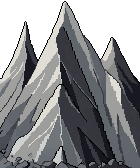
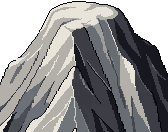
Mountains: rolling ground to foothill to peak, in three touching bands
The operator's second list, worked through. The land now THICKENS the way
the forest does instead of jumping from meadow to alp: low rolling rises
at the front, foothills just behind them, peaks behind those, and the
band offsets are measured against the art's own height so each band
OVERLAPS the one behind it — the grass that showed between foothill and
mountain last round is gone. The foothills themselves were rebuilt: they
were rocky hummocks with scree scattered round them, which read as random
debris; they are smooth slow rises now, no summit, no rubble, drawn in
the same grey stone, and both low bands are placed at half size so small
ground reads small beside a peak.

Straight lines had four separate causes and all four are fixed. The
ground shadow was cast from each piece's untorn foot, so it stayed as a
ruled band after the tear pulled the rock up off it — it is cast from the
composite's own silhouette now. The tear itself was sampling the land
lattice far past the end of its array, where it clamps to a constant and
quietly restored the very edge it was meant to break; it reads a coarse
5px hash instead, so the edge comes away in chunks. The step between
pieces was measured on the untorn width, leaving a strip of grass between
every pair. And the foot is now torn ONLY on the frontmost band — tearing
it under another band opened a window onto the grass between them.

Also: the needle peaks the operator called too sharp are replaced by four
[…]

diff --git a/js/render.js b/js/render.js
@@ -602,10 +602,10 @@ const MTN = {
      massif has depth instead of being one row of cardboard. */
   KIT: 1,                // 0 stands the drawn kit down; the extrusion returns
   KIT_OVERLAP: 0.34,
-  KIT_RANK_STEP: 4,      // tiles
+  KIT_RANK_STEP: 3,      // tiles between peak ranks (bands stay touching)
   KIT_RANK_MAX: 3,
   KIT_SADDLE_EVERY: 0.42,// share of chain slots that take a low link
-  KIT_PAD_UP: 7,         // tiles of northward headroom a drawn peak may use
+  KIT_PAD_UP: 10,         // tiles of northward headroom a drawn peak may use
   KIT_TEAR: 16,           // px of the piece's own left/right/bottom edge torn away
   KIT_SHORE_GAP: 1,      // tiles of grass kept between the art and any water
   KIT_SHADOW: 10,        // px of ground shadow cast south of a piece's foot
@@ -4144,6 +4144,7 @@ const R = {
     if (!peaks.length) return null;
     const saddles = (kit.saddle && kit.saddle.length) ? kit.saddle : null;
     const hills = (kit.hill && kit.hill.length) ? kit.hill : null;
+    const rolls = (kit.roll && kit.roll.length) ? kit.roll : null;
     const [bx0, by0, bx1, by1] = r.box;
     const cw = bx1 - bx0 + 1;
     const north = new Int32Array(cw).fill(1e9), south = new Int32Array(cw).fill(-1);
@@ -4154,21 +4155,32 @@ const R = {
     }
     const hsh = (a, b) => this._lh(a | 0, b | 0, (r.seed & 511) + 811);
     const plan = [];
-    /* one pass per RANK, north to south, so the plan is built back to front:
-       the deepest peaks first, the foothills last. `up` is how far north of
-       the southern edge this rank stands. */
-    const ranks = [];
-    for (let i = MTN.KIT_RANK_MAX - 1; i >= 1; i--) ranks.push({ up: i * MTN.KIT_RANK_STEP, kind: 'peak' });
-    ranks.push({ up: 0, kind: hills ? 'hill' : 'peak' });      // the front rank
+    /* THE BANDS, and why they are only a tile or two apart. A range is read
+       the way the forest is: the land does not jump from meadow to alp, it
+       THICKENS — small rolling rises first, then foothills, then the peaks
+       behind them — and each band must TOUCH the one behind it. The step is
+       therefore measured against the art's own height, not in whole ranks:
+       a foothill set one tile back still overlaps the rolling rise in front
+       of it, and the peak set two tiles behind still overlaps the foothill.
+       Any wider and grass shows between the bands, which is the tell that
+       gave the last round away. Bands are listed front to back and walked
+       BACK to front, so the plan is built in draw order. */
+    const bands = [];
+    if (rolls) bands.push({ up: 0, kind: 'roll' });
+    if (hills) bands.push({ up: 0, kind: 'hill' });
+    const peakBase = (rolls || hills) ? 1 : 0;
+    for (let i = 0; i < MTN.KIT_RANK_MAX; i++) bands.push({ up: peakBase + i * MTN.KIT_RANK_STEP, kind: 'peak' });
+    bands.reverse();
     let slot = 0;
-    for (const rank of ranks) {
+    for (const rank of bands) {
       let x = bx0, prevSaddle = false, any = false;
       while (x <= bx1) {
-        /* WHICH PIECE. The front rank is foothills. Behind it, a peak —
-           unless the last slot was a peak and the roll calls for the low
-           link that joins two summits, and never two links running. */
+        /* WHICH PIECE. The front bands are the low ground. Behind them a
+           peak — unless the roll calls for the low link that joins two
+           summits, and never two links running. */
         let pool = peaks, kind = 'peak';
-        if (rank.kind === 'hill') { pool = hills; kind = 'hill'; }
+        if (rank.kind === 'roll') { pool = rolls; kind = 'roll'; }
+        else if (rank.kind === 'hill') { pool = hills; kind = 'hill'; }
         else if (saddles && !prevSaddle && slot > 0 && hsh(slot, 13) < MTN.KIT_SADDLE_EVERY) { pool = saddles; kind = 'saddle'; }
         const piece = pool[(hsh(slot, 29) * pool.length) | 0];
         const span = Math.max(1, Math.round(piece.w / CFG.TILE));
@@ -4197,10 +4209,14 @@ const R = {
           if (cx >= 0 && cx < cw && south[cx] >= fy && north[cx] <= fy) onRock++;
         }
         if (onRock < span * 0.7) { x += 1; continue; }
-        plan.push({ piece, kind, tx: x, fy: fy + 1, up: rank.up });
+        plan.push({ piece, kind, tx: x, fy: fy + 1, up: rank.up, front: rank === bands[bands.length - 1] });
         prevSaddle = (kind === 'saddle');
         any = true; slot++;
-        x += Math.max(1, Math.round(span * (1 - MTN.KIT_OVERLAP)));
+        /* the step is measured on the piece's TORN width — the tear takes
+           a bite out of both flanks, and stepping by the untorn width left a
+           strip of grass between every pair */
+        const bite = Math.max(2, Math.min(MTN.KIT_TEAR, Math.round(Math.min(piece.w, piece.h) * 0.17)));
+        x += Math.max(1, Math.round((piece.w - 2 * bite) * (1 - MTN.KIT_OVERLAP) / CFG.TILE));
       }
       if (!any && rank.up > 0) continue;      // no room for this rank; the shallower ones still stand
     }
@@ -4209,6 +4225,8 @@ const R = {
 
   drawMtnChained(r) {
     const TL = CFG.TILE, W = CFG.W, H = CFG.H;
+    this.landLattices();
+    const one = this._latOne;
     const plan = this.mtnChainPlan(r);
     if (!plan) return null;
     const terrK = (S.map.seenTerrain || S.map.terrain);
@@ -4277,30 +4295,6 @@ const R = {
       return v;
     };
 
-    // ---- the ground shadow, laid under every foot before any rock
-    if (MTN.KIT_SHADOW > 0) {
-      const len = MTN.KIT_SHADOW | 0;
-      for (const q of placed) {
-        const f = q.p.piece.foot;
-        if (!f) continue;
-        for (let sx = 0; sx < q.p.piece.w; sx++) {
-          if (f[sx] < 0) continue;
-          const gx = q.x - px0 + sx, gy = q.y - py0 + f[sx];
-          if (gx < 0 || gx >= w) continue;
-          for (let k = 1; k <= len; k++) {
-            const yy = gy + k;
-            if (yy < 0 || yy >= h) continue;
-            if (banned(((px0 + gx) / TL) | 0, ((py0 + yy) / TL) | 0)) continue;
-            const t = 1 - k / len;
-            g.fillStyle = 'rgba(12,15,11,' + (MTN.KIT_SHADOW_A * t * t).toFixed(3) + ')';
-            g.fillRect(gx, yy, 1, 1);
-          }
-        }
-      }
-    }
-    /* BACK TO FRONT: the deepest rank first, the foothills last, and within
-       a rank by foot row — so the small stuff in front overlaps the feet of
-       the big stuff behind it, which is the whole point of the arrangement */
     placed.sort((a, b) => (b.p.up - a.p.up) || (a.foot - b.foot));
     /* NO STRAIGHT LINES, EVER. A piece is opaque right up to its own canvas
        edge — that is what lets its flanks merge with a neighbour's — so any
@@ -4316,17 +4310,52 @@ const R = {
     for (const q of placed) {
       const pc = q.p.piece, sp = pc.px;
       if (!sp) { g.drawImage(pc.c, q.x - px0, q.y - py0); continue; }   // tainted: draw it whole
+      // the tear is a share of the piece, not a fixed slab: 16px off a small
+      // rolling rise would eat most of it
+      const tear = Math.max(2, Math.min(TEAR, Math.round(Math.min(pc.w, pc.h) * 0.17)));
       for (let sy = 0; sy < pc.h; sy++) for (let sx = 0; sx < pc.w; sx++) {
         const so = (sy * pc.w + sx) * 4;
         if (sp[so + 3] < 128) continue;
         const gx = q.x - px0 + sx, gy = q.y - py0 + sy;
         if (gx < 0 || gy < 0 || gx >= w || gy >= h) continue;
-        if (TEAR > 0) {
-          const d = Math.min(sx, pc.w - 1 - sx, pc.h - 1 - sy);
-          if (d < TEAR && this._lh((q.x + sx) >> 1, (q.y + sy) >> 1, 61) > (d + 0.5) / TEAR) continue;
+        if (tear > 0) {
+          /* the FOOT is only torn on the frontmost band. Tear the foot of a
+             piece that has another band standing in front of it and the gap
+             between the two becomes a window onto the grass. */
+          const d = q.p.front ? Math.min(sx, pc.w - 1 - sx, pc.h - 1 - sy) : Math.min(sx, pc.w - 1 - sx);
+          /* COHERENT, NOT DITHERED. A per-pixel hash erodes the edge into
+             dust; this hashes a 5px grid instead, so the tear comes away in
+             chunks and the edge reads as broken rock. (The smooth land
+             lattice cannot serve here — its own resolution is per-tile, and
+             sampling it finely runs off the end of the array and clamps to a
+             constant, which quietly restored the straight edge.) */
+          if (d < tear && this._lh(((q.x + sx) / 5) | 0, ((q.y + sy) / 5) | 0, 61) > (d + 0.5) / tear) continue;
         }
         const oo = (gy * w + gx) * 4;
         cd[oo] = sp[so]; cd[oo + 1] = sp[so + 1]; cd[oo + 2] = sp[so + 2]; cd[oo + 3] = 255;
+      }
+    }
+    /* THE GROUND SHADOW IS CAST FROM THE TORN SILHOUETTE, never from the
+       piece's own foot profile. Cast beforehand it drew a ruled dark band
+       under every piece and then the tear pulled the rock up off it, which
+       is where the last round's straight lines under the low bands came
+       from. Read the composite's own lowest rock in each column instead. */
+    if (MTN.KIT_SHADOW > 0) {
+      const len = MTN.KIT_SHADOW | 0;
+      const low = new Int32Array(w).fill(-1);
+      for (let i = 0; i < w; i++) for (let j = h - 1; j >= 0; j--)
+        if (cd[(j * w + i) * 4 + 3] >= 128) { low[i] = j; break; }
+      for (let i = 0; i < w; i++) {
+        if (low[i] < 0) continue;
+        for (let k = 1; k <= len; k++) {
+          const yy = low[i] + k;
+          if (yy >= h) break;
+          const oo = (yy * w + i) * 4;
+          if (cd[oo + 3] >= 128) break;                 // more rock below: no shadow between
+          const t = 1 - k / len, al = MTN.KIT_SHADOW_A * t * t;
+          const a2 = Math.max(cd[oo + 3] / 255, al);
+          cd[oo] = 12; cd[oo + 1] = 15; cd[oo + 2] = 11; cd[oo + 3] = (a2 * 255) | 0;
+        }
       }
     }
     g.putImageData(cur, 0, 0);
@@ -4343,6 +4372,21 @@ const R = {
         if (fy > footPx[gx]) footPx[gx] = fy;
       }
     }
+    /* the lift's own rule, on the tiles: art may stand north of the
+       footprint wherever there is mountain within KIT_PAD_UP tiles directly
+       below it — measured here rather than off the polygon's top edge,
+       because a column the polygon happens not to reach was cutting summits
+       clean off their mountains. */
+    const liftOk = (xw, yw) => {
+      const tx = (xw / TL) | 0, ty = (yw / TL) | 0;
+      if (tx < 0 || tx >= W) return false;
+      for (let d = 1; d <= MTN.KIT_PAD_UP; d++) {
+        const yy = ty + d;
+        if (yy >= H) break;
+        if (terrK[yy * W + tx] === T.MOUNTAIN) return true;
+      }
+      return false;
+    };
     const cover = new Set();
     const owner = new Int16Array(w * h).fill(-1);
     for (let j = 0; j < h; j++) for (let i = 0; i < w; i++) {
@@ -4351,10 +4395,16 @@ const R = {
       const xw = px0 + i, yw = py0 + j;
       const tx = (xw / TL) | 0, ty = (yw / TL) | 0;
       if (xw < TL || xw >= (W - 1) * TL || yw < TL || yw >= (H - 1) * TL) { od[o + 3] = 0; continue; }
+      /* WHAT MAY STAND HERE. Inside the region's own fractured outline,
+         anything. North of it, anything with mountain within KIT_PAD_UP
+         tiles directly BELOW — the lift's own rule, measured on the tiles
+         rather than on the polygon's top edge, because a column the
+         polygon happens not to reach was cutting summits clean off. The
+         ground shadow (never fully opaque) only has to clear the water. */
+      const soft = od[o + 3] < 250;
       const inPoly = poly[o + 3] >= 128;
-      // north of the polygon, in a column the polygon actually reaches
-      const upOk = !inPoly && topOf[i] >= 0 && j < topOf[i] && (topOf[i] - j) <= MTN.KIT_PAD_UP * TL;
-      if ((!inPoly && !upOk) || banned(tx, ty)) { od[o + 3] = 0; continue; }
+      if (banned(tx, ty)) { od[o + 3] = 0; continue; }
+      if (!soft && !inPoly && !liftOk(xw, yw)) { od[o + 3] = 0; continue; }
       const fy = footPx[i] >= 0 ? footPx[i] : yw;
       owner[kk] = Math.min(H - 1, Math.max(0, ((fy - 1) / TL) | 0));
       if (od[o + 3] >= 128) cover.add(ty * W + tx);

diff --git a/js/assets.js b/js/assets.js
@@ -603,7 +603,7 @@ const Assets = {
      Absent files are the default state — with no kit the procedural
      extrusion stands exactly as it always has. */
   MTN_KIT_DIR: 'assets/terrain/mountain/',
-  MTN_KIT_KINDS: ['peak', 'saddle', 'hill'],   // hill = the low front rank
+  MTN_KIT_KINDS: ['peak', 'saddle', 'hill', 'roll'],   // hill/roll = the low front bands
   mtnKit: {}, mtnKitRev: 0,
   mtnKitUrl(kind, letter) { return this.MTN_KIT_DIR + kind + '-' + letter + '.png?v=' + (CFG.ART_V || 1); },
   _tryMtnKit() { for (const kind of this.MTN_KIT_KINDS) this._tryMtnPiece(kind, 0); },
@@ -614,13 +614,40 @@ const Assets = {
     img.onerror = () => { /* the kit ends here */ };
     img.src = this.mtnKitUrl(kind, String.fromCharCode(97 + li));
   },
+  /* the low bands are drawn at half size — small rolling ground should
+     READ small beside a peak, and halving is the only resize the density
+     canon allows (an integer box downscale, never a resample) */
+  MTN_KIT_DIV: { roll: 2, hill: 2 },
   setMtnPiece(kind, img) {
     if (!img || !img.width || !img.height) return false;
+    const div = this.MTN_KIT_DIV[kind] || 1;
     const c = document.createElement('canvas');
-    c.width = img.width; c.height = img.height;
+    c.width = Math.max(1, (img.width / div) | 0); c.height = Math.max(1, (img.height / div) | 0);
     const g = c.getContext('2d');
     g.imageSmoothingEnabled = false;
-    g.drawImage(img, 0, 0);
+    if (div === 1) g.drawImage(img, 0, 0);
+    else {
+      const s2 = document.createElement('canvas');
+      s2.width = img.width; s2.height = img.height;
+      const sg = s2.getContext('2d');
+      sg.imageSmoothingEnabled = false;
+      sg.drawImage(img, 0, 0);
+      try {
+        const sd = sg.getImageData(0, 0, img.width, img.height).data;
+        const od = g.createImageData(c.width, c.height);
+        for (let y = 0; y < c.height; y++) for (let x = 0; x < c.width; x++) {
+          let r2 = 0, g2 = 0, b2 = 0, n = 0;
+          for (let oy = 0; oy < div; oy++) for (let ox = 0; ox < div; ox++) {
+            const o = ((y * div + oy) * img.width + (x * div + ox)) * 4;
+            if (sd[o + 3] < 128) continue;
+            r2 += sd[o]; g2 += sd[o + 1]; b2 += sd[o + 2]; n++;
+          }
+          const oo = (y * c.width + x) * 4;
+          if (n * 2 >= div * div) { od.data[oo] = r2 / n; od.data[oo + 1] = g2 / n; od.data[oo + 2] = b2 / n; od.data[oo + 3] = 255; }
+        }
+        g.putImageData(od, 0, 0);
+      } catch (e) { g.drawImage(img, 0, 0, c.width, c.height); }
+    }
     /* the FOOT PROFILE — the lowest opaque row in each column. It is what
        the ground shadow is cast from and what decides which tile row owns
        each column of the piece, so the occlusion strips stay honest. */
